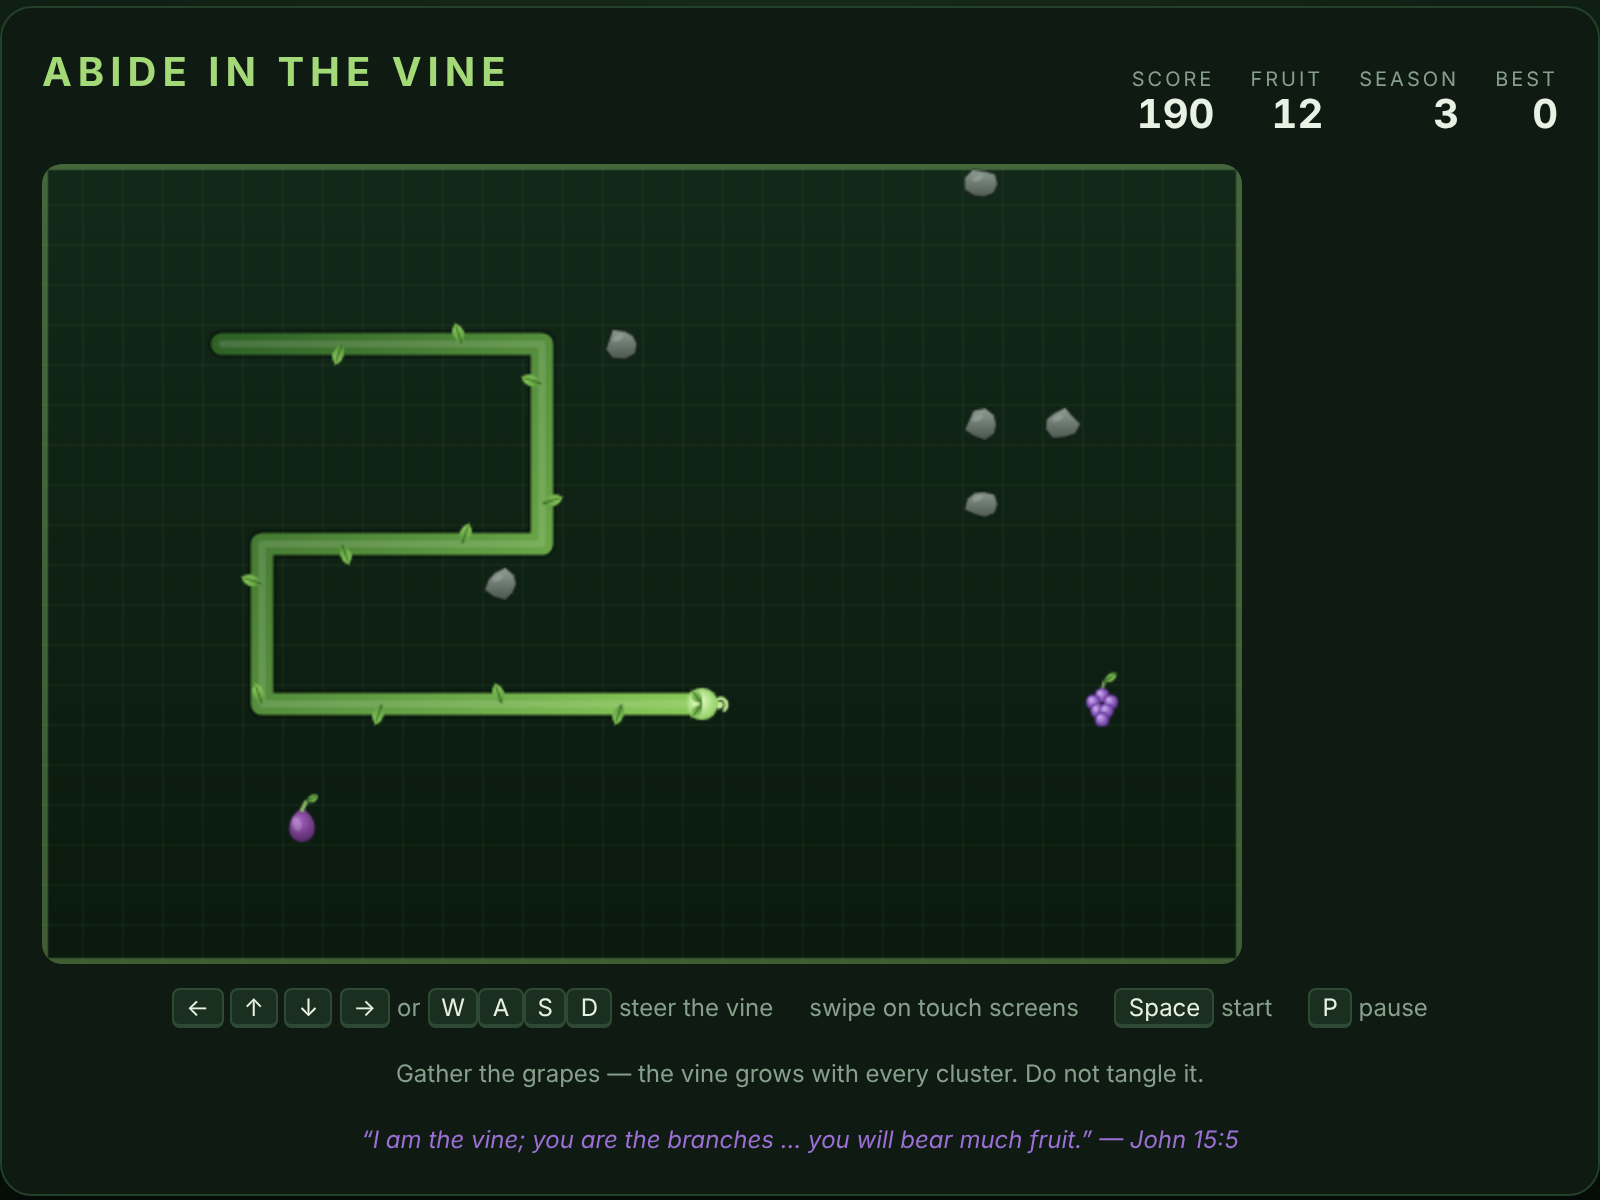
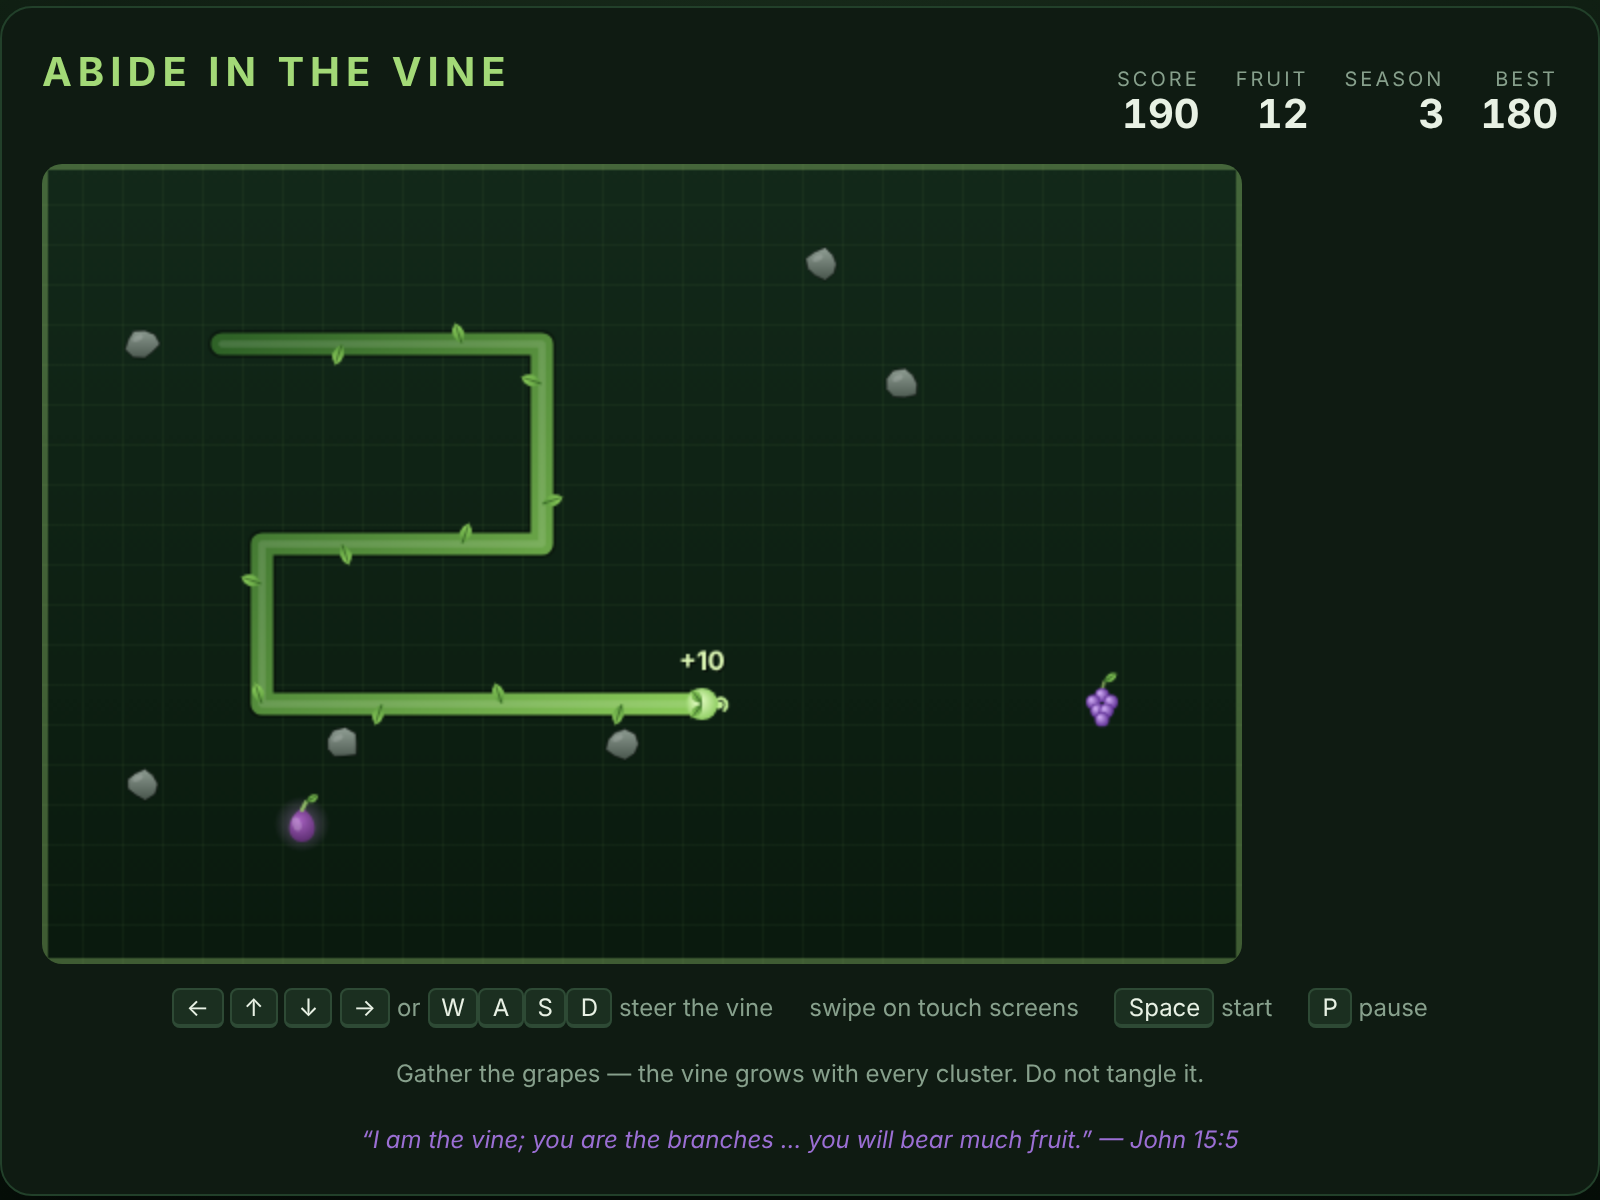
Polish Abide in the Vine: floating labels, tangle mark, gentler speed ramp
- Gathering fruit floats a +10 / +50 label, and a new season announces
  itself; labels age in wall-clock seconds so they fade at the same rate
  however fast the vine is moving.
- A lost run leaves an amber burst on the cell the tip could not enter, so
  the player can see what the vine ran into.
- Stones are irregular blobs with a per-cell shape, the bonus fig has a
  halo, and the leaves along the stem are drawn as real leaves.
- Speed now ramps 150ms -> 85ms a cell instead of 140 -> 70; 25 seconds of
  automated play showed the old floor arriving too early to be fun.
- Switching tabs pauses a running game, and a blocked localStorage no
  longer breaks startup.

Seven more tests (62 in total), written before the behaviour as before.
Marked Complete in the README.

Claude-Session: https://claude.ai/code/session_019M1bKoRJgXPkB2bigxGyMx

diff --git a/AbideInTheVine/game.js b/AbideInTheVine/game.js
@@ -34,9 +34,9 @@ const MAX_STONES = 16;
 const SAFE_CELLS_AHEAD = 3;     // no new stone may land this close in front
 
 // --- Speed (pure functions of `fruit`) ---
-const TICK_BASE = 140;          // ms per cell at the start of a run
-const TICK_STEP = 5;            // ms shaved off per grape gathered
-const TICK_MIN = 70;            // fastest the vine ever moves
+const TICK_BASE = 150;          // ms per cell at the start of a run
+const TICK_STEP = 4;            // ms shaved off per grape gathered
+const TICK_MIN = 85;            // fastest the vine ever moves
 
 const BEST_KEY = 'abide-in-the-vine-best';
 
@@ -55,7 +55,8 @@ let level = 1;
 let growth = 0;                 // cells still to be added
 let tickMs = TICK_BASE;
 let tickTimer = 0;
-let ticks = 0;                  // ticks since the run began (for animation)
+let pops = [];                  // floating score / season labels
+let tangleAt = null;            // cell the vine tangled on, marked after a loss
 
 // --- DOM -------------------------------------------------------------------
 const canvas = document.getElementById('canvas');
@@ -113,6 +114,19 @@ function freeCells(extraBlocked) {
 
 function pick(cells) {
     return cells.length ? cells[Math.floor(Math.random() * cells.length)] : null;
+}
+
+const POP_LIFE = 1.2;           // seconds a floating label lingers
+
+function addPop(text, cell, color) {
+    pops.push({ text, x: cell.x, y: cell.y, life: POP_LIFE, color: color || '#dcf7b4' });
+}
+
+// Floating labels live in wall-clock time, not in ticks, so they fade at the
+// same rate however fast the vine is moving.
+function updatePops(dt) {
+    for (const p of pops) p.life -= dt;
+    pops = pops.filter((p) => p.life > 0);
 }
 
 function refreshSpeed() {
@@ -180,8 +194,9 @@ function startGame() {
     fruit = 0;
     level = 1;
     growth = 0;
-    ticks = 0;
     tickTimer = 0;
+    pops = [];
+    tangleAt = null;
     refreshSpeed();
     spawnGrape();
     state = 'running';
@@ -256,7 +271,6 @@ function setDirection(dx, dy) {
 // One grid tick: the tip moves exactly one cell.
 function advance() {
     if (state !== 'running') return;
-    ticks++;
 
     if (pendingDirs.length) dir = pendingDirs.shift();
 
@@ -266,6 +280,7 @@ function advance() {
 
     if (!inBounds(next.x, next.y) || onStone(next.x, next.y) ||
         (onVine(next.x, next.y) && !tailVacates)) {
+        tangleAt = next;
         gameOver();
         return;
     }
@@ -279,16 +294,21 @@ function advance() {
         fruit++;
         score += GRAPE_POINTS;
         growth += GROW_PER_FRUIT;
+        addPop(`+${GRAPE_POINTS}`, next);
         const before = level;
         refreshLevel();
         refreshSpeed();
-        if (level > before) addStones();
+        if (level > before) {
+            addStones();
+            addPop(`Season ${level}`, { x: next.x, y: next.y - 1 }, '#f0c96a');
+        }
         if (fruit % FIG_EVERY === 0 && !fig) spawnFig();
         spawnGrape();
     }
 
     if (ateFig) {
         score += FIG_POINTS;
+        addPop(`+${FIG_POINTS}`, next, '#d6a0f5');
         fig = null;
     }
 
@@ -572,12 +592,46 @@ function drawTip() {
     drawLeaf(px, py, angle + 2.2, 9);
 }
 
+// Where the vine came to grief: an amber burst left on the board.
+function drawTangle() {
+    if (!tangleAt) return;
+    const px = cx(Math.max(0, Math.min(COLS - 1, tangleAt.x)));
+    const py = cy(Math.max(0, Math.min(ROWS - 1, tangleAt.y)));
+    ctx.strokeStyle = '#f2a65a';
+    ctx.lineWidth = 2.4;
+    ctx.lineCap = 'round';
+    for (let i = 0; i < 6; i++) {
+        const a = (i / 6) * Math.PI * 2 + Math.PI / 12;
+        ctx.beginPath();
+        ctx.moveTo(px + Math.cos(a) * 4, py + Math.sin(a) * 4);
+        ctx.lineTo(px + Math.cos(a) * 11, py + Math.sin(a) * 11);
+        ctx.stroke();
+    }
+}
+
+function drawPops() {
+    ctx.textAlign = 'center';
+    ctx.textBaseline = 'middle';
+    for (const p of pops) {
+        const t = 1 - p.life / POP_LIFE;          // 0 at birth, 1 at the end
+        ctx.globalAlpha = Math.max(0, 1 - t * t);
+        ctx.font = 'bold 13px "Segoe UI", system-ui, sans-serif';
+        ctx.fillStyle = 'rgba(0, 0, 0, 0.5)';
+        ctx.fillText(p.text, cx(p.x) + 1, cy(p.y) - t * 18 + 1);
+        ctx.fillStyle = p.color;
+        ctx.fillText(p.text, cx(p.x), cy(p.y) - t * 18);
+    }
+    ctx.globalAlpha = 1;
+}
+
 function draw() {
     drawGarden();
     drawStones();
     if (grape) drawGrapes(grape, 1.1);
     drawFig();
     drawVine();
+    drawTangle();
+    drawPops();
 }
 
 // ---------------------------------------------------------------------------
@@ -590,6 +644,7 @@ function frame(now) {
     const dt = lastTime ? Math.min((now - lastTime) / 1000, 0.1) : 0;
     lastTime = now;
     if (state === 'running') step(dt);
+    updatePops(dt);
     draw();
     requestAnimationFrame(frame);
 }
@@ -664,15 +719,26 @@ canvas.addEventListener('touchend', () => { touchStart = null; });
 
 btnStart.addEventListener('click', () => startOrRestart());
 
+// Nobody should lose a long vine because they switched tabs.
+document.addEventListener('visibilitychange', () => {
+    if (document.hidden && state === 'running') togglePause();
+});
+
 // ---------------------------------------------------------------------------
 // Init
 // ---------------------------------------------------------------------------
 
-best = parseInt(localStorage.getItem(BEST_KEY) || '0', 10) || 0;
+try {
+    best = parseInt(localStorage.getItem(BEST_KEY) || '0', 10) || 0;
+} catch (e) {
+    best = 0;  // private mode / storage blocked
+}
 state = 'idle';
 vine = [];
 for (let i = 0; i < START_LENGTH; i++) vine.push({ x: START_X - i, y: START_Y });
 grape = { x: 20, y: 10 };
+pops = [];
+tangleAt = null;
 updateHud();
 draw();
 requestAnimationFrame(frame);

diff --git a/AbideInTheVine/tests/abide-in-the-vine.spec.js b/AbideInTheVine/tests/abide-in-the-vine.spec.js
@@ -385,6 +385,83 @@ test.describe('Abide in the Vine', () => {
     });
 
     // -----------------------------------------------------------------------
+    // Flourishes
+    // -----------------------------------------------------------------------
+    test.describe('flourishes', () => {
+        test('gathering a grape floats a +10 over the garden', async ({ page }) => {
+            const pops = await page.evaluate(() => {
+                startGame();
+                pops.length = 0;
+                grape = { x: vine[0].x + 1, y: vine[0].y };
+                advance();
+                return pops.map((p) => p.text);
+            });
+            expect(pops).toEqual(['+10']);
+        });
+
+        test('gathering a fig floats a +50', async ({ page }) => {
+            const pops = await page.evaluate(() => {
+                startGame();
+                fig = { x: vine[0].x + 1, y: vine[0].y, ticks: 20 };
+                grape = { x: 0, y: 0 };
+                pops.length = 0;
+                advance();
+                return pops.map((p) => p.text);
+            });
+            expect(pops).toEqual(['+50']);
+        });
+
+        test('a new season announces itself', async ({ page }) => {
+            const texts = await page.evaluate(() => {
+                startGame();
+                fruit = 4;
+                grape = { x: vine[0].x + 1, y: vine[0].y };
+                pops.length = 0;
+                advance();
+                return pops.map((p) => p.text);
+            });
+            expect(texts).toContain('Season 2');
+        });
+
+        test('pops fade away as time passes', async ({ page }) => {
+            const left = await page.evaluate(() => {
+                startGame();
+                grape = { x: vine[0].x + 1, y: vine[0].y };
+                advance();
+                updatePops(5);
+                return pops.length;
+            });
+            expect(left).toBe(0);
+        });
+
+        test('a tangle is marked where the vine hit', async ({ page }) => {
+            const mark = await page.evaluate(() => {
+                startGame();
+                grape = { x: 0, y: 0 };
+                stones = [{ x: vine[0].x + 1, y: vine[0].y }];
+                const wall = { x: vine[0].x + 1, y: vine[0].y };
+                advance();
+                return { tangleAt: tangleAt && { ...tangleAt }, wall, state };
+            });
+            expect(mark.state).toBe('over');
+            expect(mark.tangleAt).toEqual(mark.wall);
+        });
+
+        test('starting a new run clears the tangle mark and the pops', async ({ page }) => {
+            const s = await page.evaluate(() => {
+                startGame();
+                stones = [{ x: vine[0].x + 1, y: vine[0].y }];
+                grape = { x: 0, y: 0 };
+                advance();
+                startGame();
+                return { tangleAt, pops: pops.length };
+            });
+            expect(s.tangleAt).toBeNull();
+            expect(s.pops).toBe(0);
+        });
+    });
+
+    // -----------------------------------------------------------------------
     // Collisions and game over
     // -----------------------------------------------------------------------
     test.describe('tangling', () => {
@@ -536,6 +613,16 @@ test.describe('Abide in the Vine', () => {
         test('P does nothing before a run has started', async ({ page }) => {
             await page.keyboard.press('p');
             expect(await page.evaluate(() => state)).toBe('idle');
+        });
+
+        test('leaving the tab pauses the run', async ({ page }) => {
+            const st = await page.evaluate(() => {
+                startGame();
+                Object.defineProperty(document, 'hidden', { value: true, configurable: true });
+                document.dispatchEvent(new Event('visibilitychange'));
+                return state;
+            });
+            expect(st).toBe('paused');
         });
 
         test('the Start button resumes a paused run', async ({ page }) => {

diff --git a/AbideInTheVine/DESIGN.md b/AbideInTheVine/DESIGN.md
@@ -46,8 +46,9 @@ bonus food is `fig`, and the obstacles are `stones`.
 | Every 5 grapes | Level up: 2 more trellis stones appear (capped at 16) |
 | Every 4th grape | A fig appears for 40 ticks if none is on the board |
 
-- `tickMs = max(TICK_MIN, TICK_BASE − fruit × TICK_STEP)` = `max(70, 140 − 5·fruit)`,
-  so the vine speeds up with every cluster and tops out at 70 ms per cell. Speed
+- `tickMs = max(TICK_MIN, TICK_BASE − fruit × TICK_STEP)` = `max(85, 150 − 4·fruit)`,
+  so the vine speeds up with every cluster and tops out at 85 ms per cell (about
+  sixteen clusters in). Speed
   is a pure function of `fruit`, which keeps the simulation reproducible.
 - `level = 1 + floor(fruit / 5)` — also a pure function of `fruit`.
 - Growth is deferred: gathering sets `growth += 3`, and each tick either consumes
@@ -86,6 +87,8 @@ visible in every state except `running`. The best score is kept in
 - **P** — pause / resume.
 - **Swipe** on the canvas — steer on a touch screen; the Start button is a
   normal button, so touch devices can play without a keyboard.
+- Switching away from the tab pauses a running game (`visibilitychange`), so a
+  long vine is never lost to a notification.
 
 ## Rendering
 
@@ -97,7 +100,13 @@ function of the model:
   with small leaves on alternating segments and a lighter growing tip.
 - Grapes are a small cluster of purple berries with a stem; the fig is a deeper
   purple teardrop that blinks over its last 10 ticks.
-- Stones are grey rounded squares with a lighter top edge.
+- Stones are irregular grey blobs; each one's wobble is derived from its own
+  cell coordinates, so a stone keeps the same shape for the whole run.
+- Gathering fruit floats a label (`+10`, `+50`, `Season 3`) that rises and fades.
+  Labels live in `pops` and age in wall-clock seconds through `updatePops(dt)`,
+  not in ticks, so they fade at the same rate however fast the vine is moving.
+- A lost run leaves an amber burst on `tangleAt`, the cell the tip could not
+  enter, so the player can see what the vine ran into behind the overlay.
 
 ## Code layout
 

diff --git a/AbideInTheVine/README.md b/AbideInTheVine/README.md
@@ -18,7 +18,7 @@ Open `index.html` in any browser — no build step or server required.
   the garden.
 - **Start** a run with **Space**, **Enter**, any steering key, or the Start
   button.
-- **Pause / resume** with **P**.
+- **Pause / resume** with **P**. Switching to another tab pauses the run for you.
 
 The vine never stops moving, and it cannot turn back on itself — you can only
 turn left or right of the way it is already growing.
@@ -36,8 +36,8 @@ Every five clusters starts a new **season**: two more trellis stones are set in
 the garden, and they are as solid as the wall. Stones never appear right in
 front of the tip, so a new season can never kill you on its own.
 
-The vine speeds up with every cluster, from 140 ms a cell down to a floor of
-70 ms, so late seasons are long, fast and crowded. Fill the whole garden with
+The vine speeds up with every cluster, from 150 ms a cell down to a floor of
+85 ms, so late seasons are long, fast and crowded. Fill the whole garden with
 vine and you win outright — *much fruit*.
 
 Your best score is kept in the browser between visits.

diff --git a/README.md b/README.md
@@ -151,7 +151,7 @@ For each new game, put it in a new folder. Each game should have its own README.
 | Lamp unto My Feet | [LampUntoMyFeet/](LampUntoMyFeet/) | Complete |
 | Feast of Booths | [FeastOfBooths/](FeastOfBooths/) | Complete |
 | Land of Inheritance | [LandOfInheritance/](LandOfInheritance/) | Complete |
-| Abide in the Vine | [AbideInTheVine/](AbideInTheVine/) | In Progress |
+| Abide in the Vine | [AbideInTheVine/](AbideInTheVine/) | Complete |
 
 ## Playing
 
